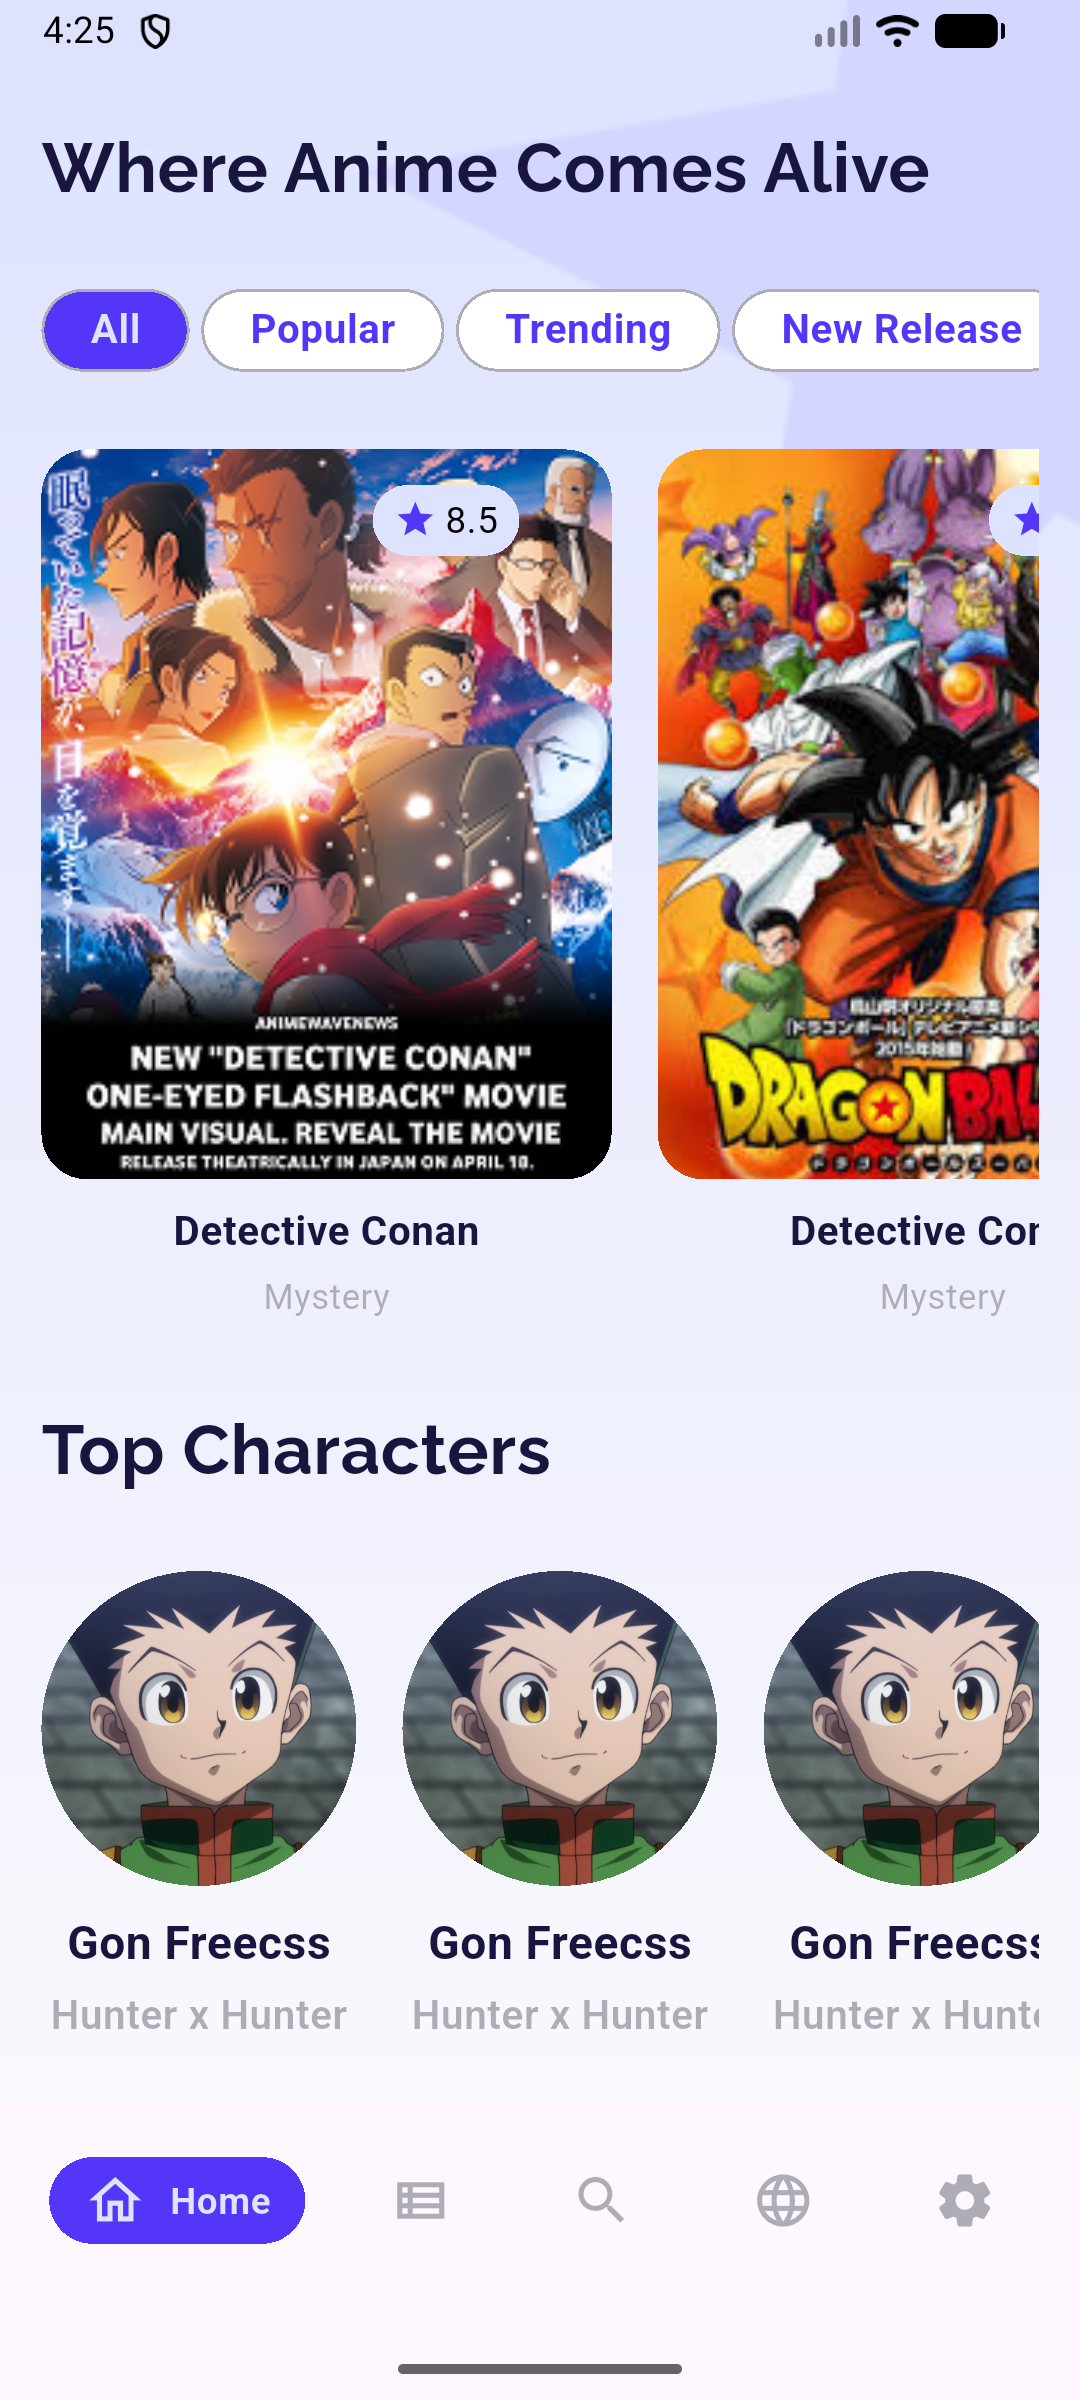
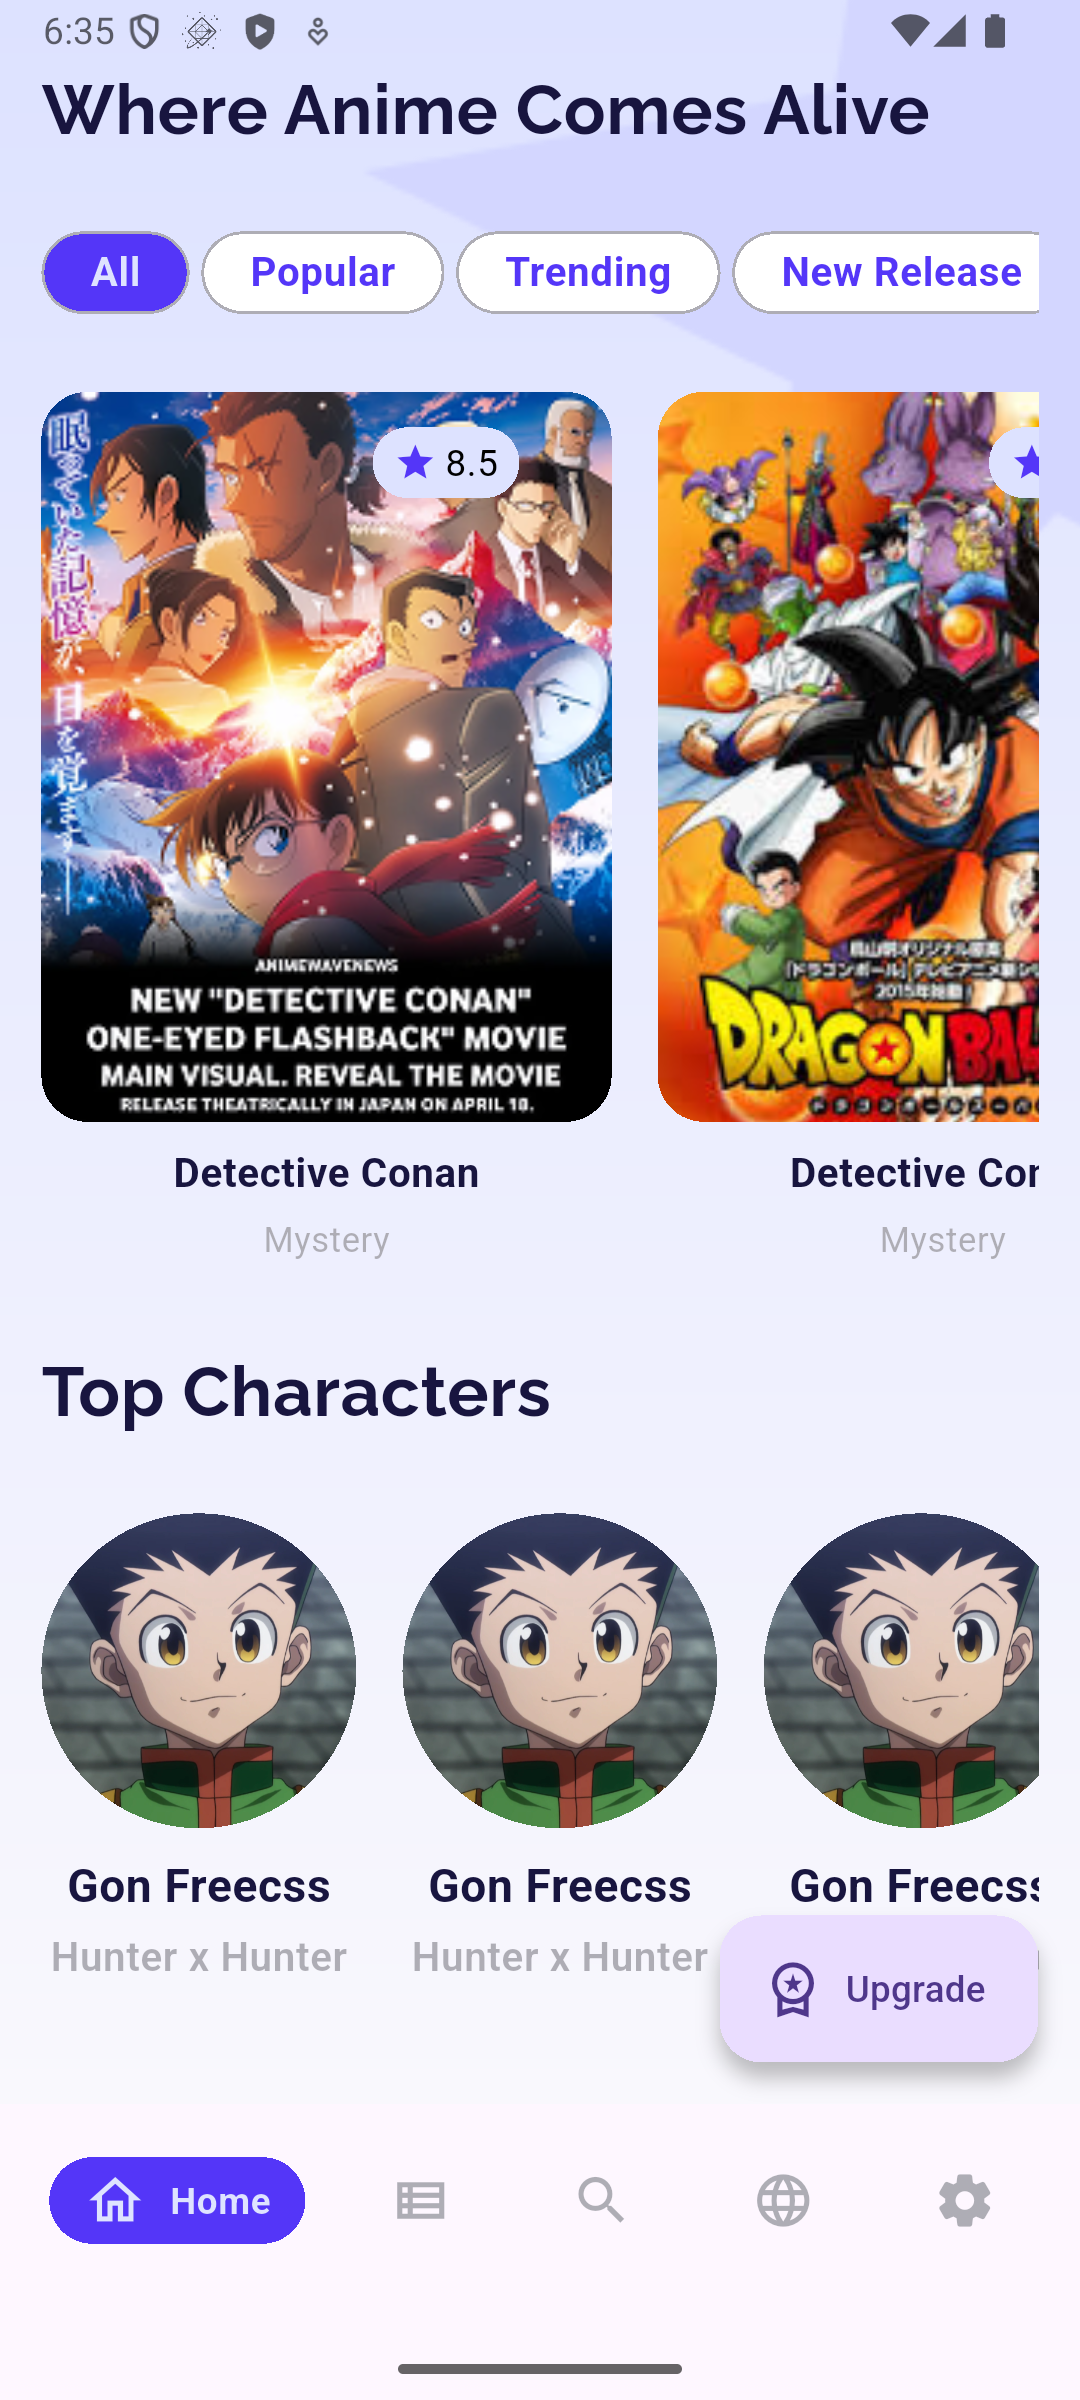
added upgrade button

diff --git a/lib/features/presentation/screens/upgrade_plan_screen.dart b/lib/features/presentation/screens/upgrade_plan_screen.dart
@@ -51,18 +51,21 @@ class _UpgradePlanScreenState extends State<UpgradePlanScreen> {
                         children: [
                           Text('Upgrade Plan', style: AppStyles.heaLineText),
                           SizedBox(width: 50.w),
-                          Container(
-                            width: 27.w,
-                            height: 27.w,
-                            alignment: Alignment.center,
-                            decoration: BoxDecoration(
-                              borderRadius: BorderRadius.circular(50.r),
-                              color: Colors.white,
-                            ),
-                            child: Icon(
-                              Icons.close,
-                              size: 18.r,
-                              color: AppColors.darkBlue,
+                          InkWell(
+                            onTap: () => Navigator.pop(context),
+                            child: Container(
+                              width: 27.w,
+                              height: 27.w,
+                              alignment: Alignment.center,
+                              decoration: BoxDecoration(
+                                borderRadius: BorderRadius.circular(50.r),
+                                color: Colors.white,
+                              ),
+                              child: Icon(
+                                Icons.close,
+                                size: 18.r,
+                                color: AppColors.darkBlue,
+                              ),
                             ),
                           ),
                         ],

diff --git a/lib/features/presentation/screens/home_screen.dart b/lib/features/presentation/screens/home_screen.dart
@@ -3,6 +3,7 @@ import 'package:flutter_screenutil/flutter_screenutil.dart';
 import 'package:mini_app/core/helper/app_constants.dart';
 import 'package:mini_app/core/helper/app_styles.dart';
 import 'package:mini_app/core/theme/container_decorations.dart';
+import 'package:mini_app/features/presentation/screens/upgrade_plan_screen.dart';
 import 'package:mini_app/features/presentation/widgets/catalog_section.dart';
 import 'package:mini_app/features/presentation/widgets/custom_bottom_navbar.dart';
 import 'package:mini_app/features/presentation/widgets/poster_widget.dart';
@@ -14,6 +15,18 @@ class HomeScreen extends StatelessWidget {
   @override
   Widget build(BuildContext context) {
     return Scaffold(
+      floatingActionButton: FloatingActionButton.extended(
+        onPressed: () {
+          Navigator.push(
+            context,
+            MaterialPageRoute(builder: (_) => const UpgradePlanScreen()),
+          );
+        },
+        icon: const Icon(Icons.workspace_premium_outlined),
+        label: const Text('Upgrade'),
+      ),
+      floatingActionButtonLocation: FloatingActionButtonLocation.endFloat,
+
       body: Container(
         decoration: ContainerDecorations.backgroundGradient,
         child: Stack(

diff --git a/lib/main.dart b/lib/main.dart
@@ -1,5 +1,6 @@
 import 'package:flutter/material.dart';
 import 'package:flutter_screenutil/flutter_screenutil.dart';
+import 'package:mini_app/features/presentation/screens/home_screen.dart';
 
 import 'package:mini_app/features/presentation/screens/upgrade_plan_screen.dart';
 
@@ -16,7 +17,7 @@ class MainApp extends StatelessWidget {
       designSize: const Size(375, 812),
       builder: (context, child) => const MaterialApp(
         debugShowCheckedModeBanner: false,
-        home: UpgradePlanScreen(),
+        home: HomeScreen(),
       ),
     );
   }
